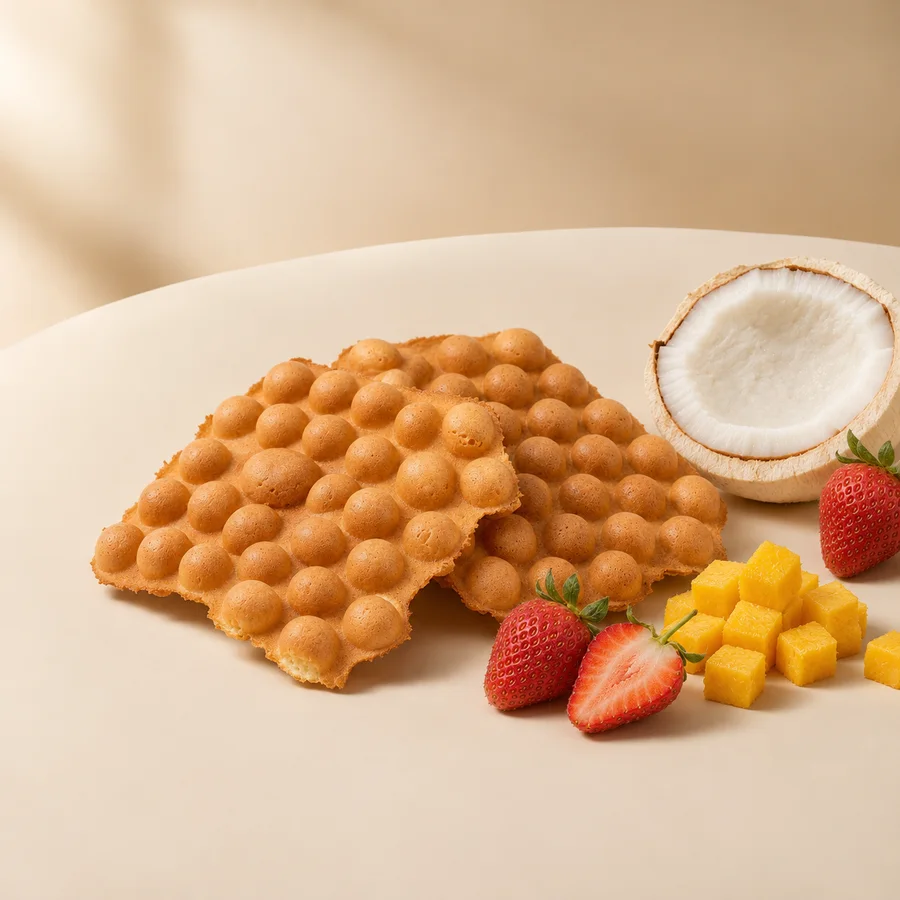
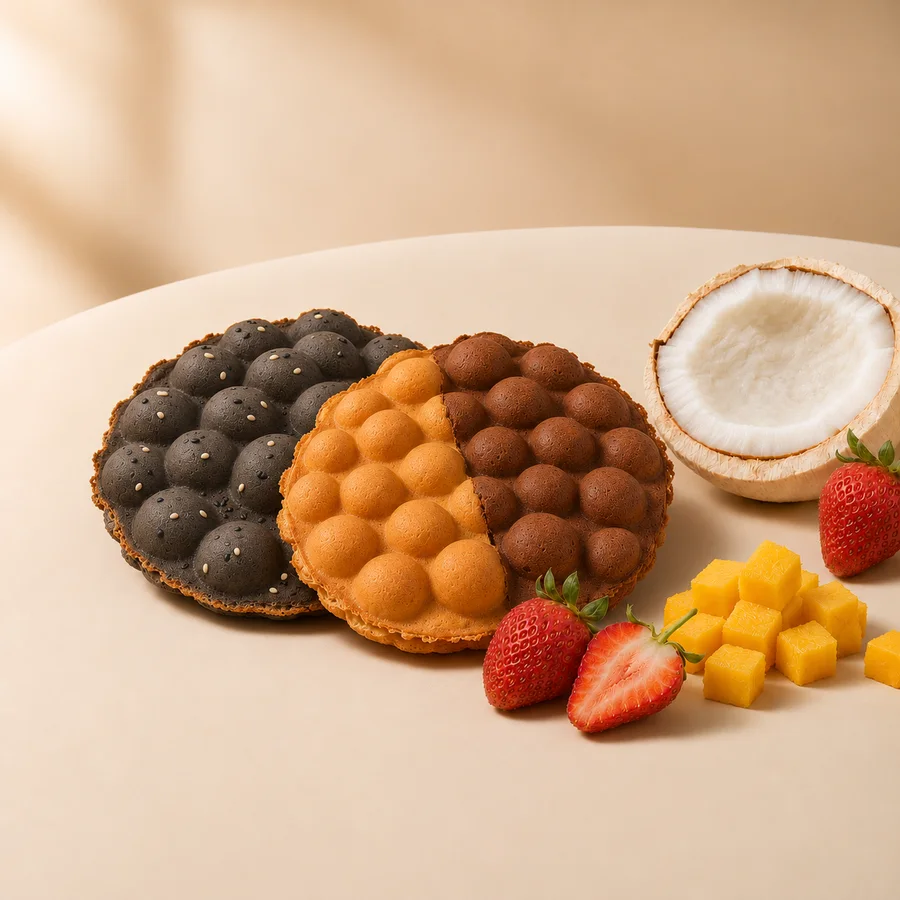
025 catering：鸡蛋仔换圆形黑芝麻+双拼

diff --git a/public/index.html b/public/index.html
@@ -77,7 +77,7 @@
   <div class="shell-stage cater-stage">
     <figure class="cb cb-tall"><img src="/assets/r13/cater-stacks.webp" alt="A barista holding four stacks of Good Coconut cups" width="1000" height="1000" loading="lazy" decoding="async"><figcaption>Drinks by the dozen</figcaption></figure>
     <figure class="cb cb-top"><img src="/assets/r13/cater-pile.webp" alt="Coconut milk poured over persimmon in a Good Coconut cup" width="1000" height="1000" loading="lazy" decoding="async"><figcaption>Coconut milk, poured fresh</figcaption></figure>
-    <figure class="cb cb-bot"><img src="/assets/r13/cater-waffle.webp" alt="Egg waffles with fresh fruit" width="800" height="800" loading="lazy" decoding="async"><figcaption>Egg waffles</figcaption></figure>
+    <figure class="cb cb-bot"><img src="/assets/r13/cater-waffle.webp" alt="Black sesame and half-chocolate egg waffles with fresh fruit" width="800" height="800" loading="lazy" decoding="async"><figcaption>Egg waffles</figcaption></figure>
   </div>
 </section><div class="container"><section class="word-wrap" aria-label="COCONUT, with a real coconut and a video as the two O's">
     <div class="word" id="word">

diff --git a/public/specialties/index.html b/public/specialties/index.html
@@ -143,7 +143,7 @@
   <div class="shell-stage cater-stage">
     <figure class="cb cb-tall"><img src="/assets/r13/cater-stacks.webp" alt="A barista holding four stacks of Good Coconut cups" width="1000" height="1000" loading="lazy" decoding="async"><figcaption>Drinks by the dozen</figcaption></figure>
     <figure class="cb cb-top"><img src="/assets/r13/cater-pile.webp" alt="Coconut milk poured over persimmon in a Good Coconut cup" width="1000" height="1000" loading="lazy" decoding="async"><figcaption>Coconut milk, poured fresh</figcaption></figure>
-    <figure class="cb cb-bot"><img src="/assets/r13/cater-waffle.webp" alt="Egg waffles with fresh fruit" width="800" height="800" loading="lazy" decoding="async"><figcaption>Egg waffles</figcaption></figure>
+    <figure class="cb cb-bot"><img src="/assets/r13/cater-waffle.webp" alt="Black sesame and half-chocolate egg waffles with fresh fruit" width="800" height="800" loading="lazy" decoding="async"><figcaption>Egg waffles</figcaption></figure>
   </div>
 </section>
 <section class="sp-outro" aria-label="Order">
